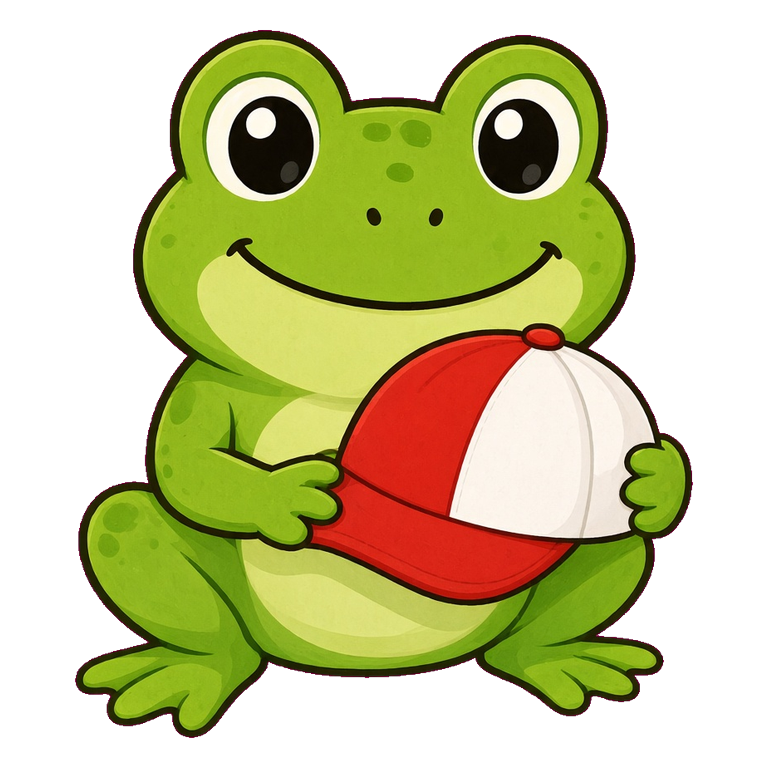
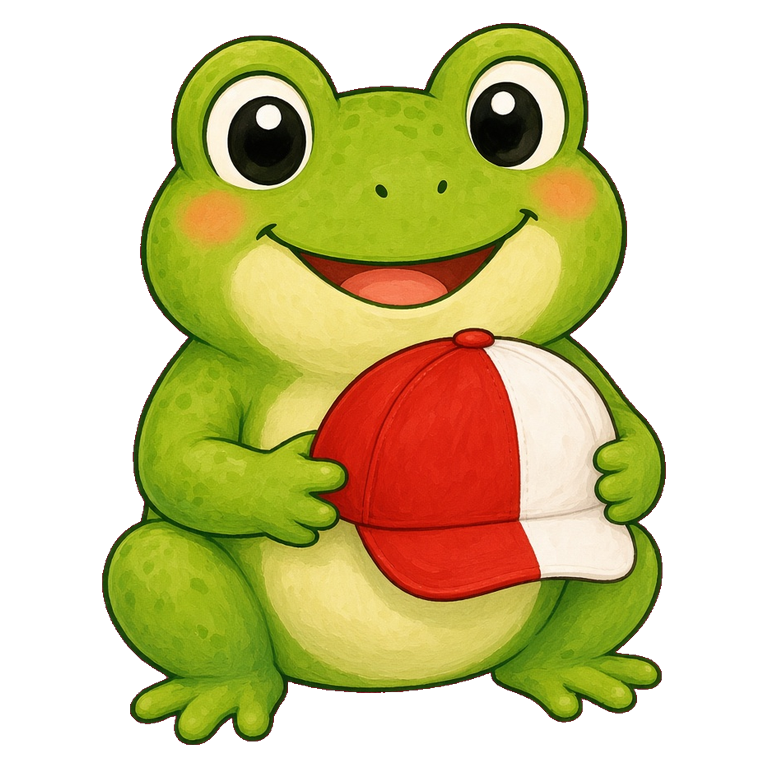
Redraw the PE cap frog and keep item art inside the frame
The red-white cap frog is repainted with the same soft hand-drawn shading as the other item animals. Full-bleed portraits were crossing the rounded avatar, so item art is inset inside the frame.

diff --git a/src/components/CreatureArt.vue b/src/components/CreatureArt.vue
@@ -49,4 +49,8 @@ const rankClass = computed(() => {
 .creature-art.subject img{object-fit:contain!important;transform:scale(1.18);filter:drop-shadow(0 12px 12px #020617a0) drop-shadow(0 0 14px #ffffff24)}
 .creature-art.subject.small img{transform:scale(1.04)}
 .creature-art.subject.large img{transform:scale(1.24)}
+/* Full-bleed item art was drawn to the canvas edge, so hats and ears crossed
+   the rounded avatar. Inset the picture so the animal stays inside the frame. */
+.creature-art.item{overflow:hidden}
+.creature-art.item img{inset:10%;width:auto;height:auto;object-fit:contain}
 </style>
